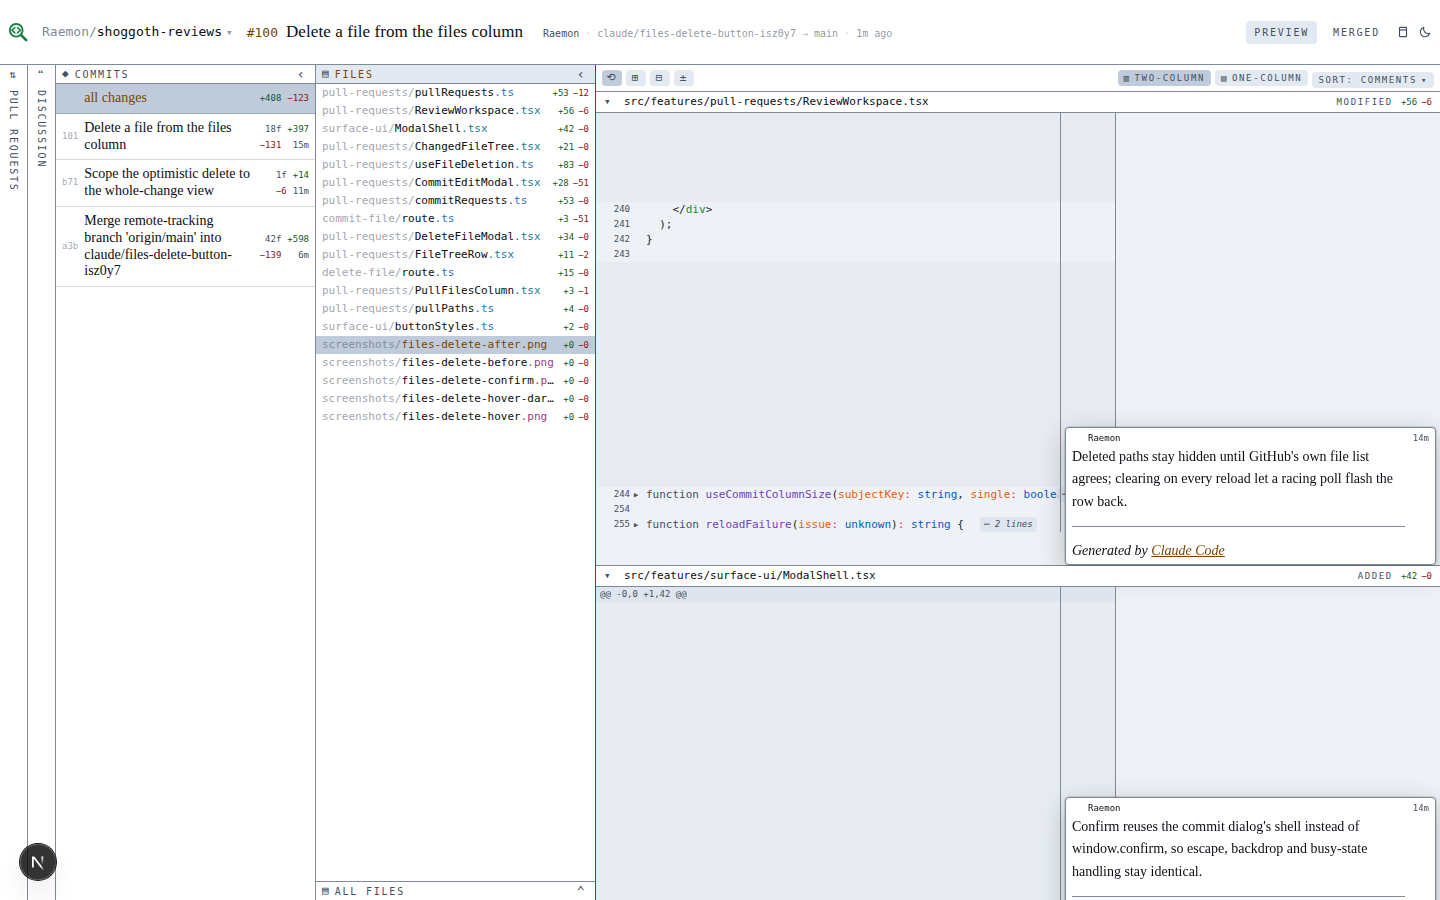
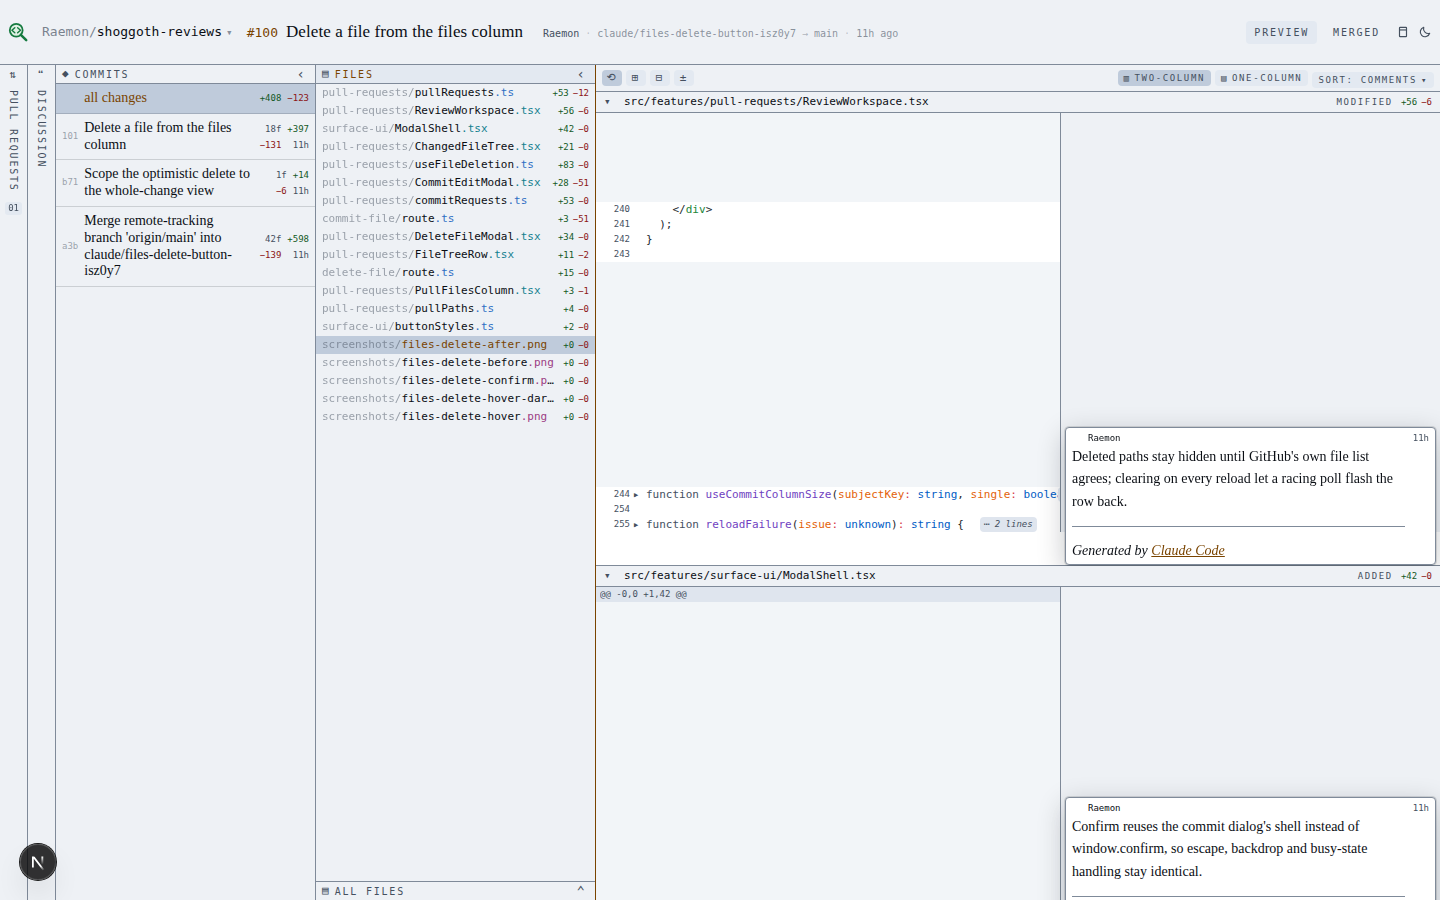
Put the diff on white and the surrounding columns on grey
Light mode had it the other way round: the file and comment columns were
white and the code sat on the page grey. A new --code token paints the
diff surface (white in light, unchanged in dark) while --panel takes the
slightly grey tone, so the code reads as the page and the columns as its
chrome. Thread cards move to --tip, which still stands out now that the
comment column is panel-coloured, and clip to the column so nothing can
render wider than it.

Claude-Session: https://claude.ai/code/session_01PAHNLCx61FBCkNtsXgCbyU

diff --git a/src/features/pull-requests/ThreadCard.tsx b/src/features/pull-requests/ThreadCard.tsx
@@ -24,7 +24,7 @@ export function ThreadCard({ thread }: { thread: ReviewThread }) {
   const shown = open ? thread.comments : thread.comments.slice(0, 1);
   return (
     <article
-      className={`group relative rounded border border-panel-edge bg-panel shadow-card ${thread.resolved ? 'opacity-70 hover:opacity-100' : ''}`}
+      className={`group relative overflow-hidden rounded border border-panel-edge bg-tip shadow-card ${thread.resolved ? 'opacity-70 hover:opacity-100' : ''}`}
     >
       {shown.map((comment, index) => (
         <ThreadComment
@@ -121,7 +121,7 @@ function ThreadActions({
 }) {
   const first = thread.comments[0];
   return (
-    <div className="absolute bottom-0 right-0 flex items-center gap-0.5 rounded-tl border-l border-t border-panel-edge/60 bg-panel px-1 text-[10px] opacity-0 transition-opacity focus-within:opacity-100 group-hover:opacity-100">
+    <div className="absolute bottom-0 right-0 flex items-center gap-0.5 rounded-tl border-l border-t border-panel-edge/60 bg-tip px-1 text-[10px] opacity-0 transition-opacity focus-within:opacity-100 group-hover:opacity-100">
       <HoverCardTrigger label="Reply" focusable={false} tooltipStyle>
         <button type="button" aria-label="Reply" onClick={onReply} disabled={busy} className={ACTION}>
           ↩

diff --git a/src/features/pull-requests/InlineThreads.tsx b/src/features/pull-requests/InlineThreads.tsx
@@ -39,7 +39,7 @@ export function InlineThreads({
   useEffect(() => onOverflow(overflow), [overflow, onOverflow]);
 
   return (
-    <div className="relative shrink-0 border-l border-panel-edge" style={{ width }}>
+    <div className="relative shrink-0 border-l border-panel-edge bg-panel" style={{ width }}>
       {cards.map((card) => (
         <PlacedCard
           key={card.thread.rootId}
@@ -117,7 +117,7 @@ function PlacedCard({
           type="button"
           onClick={onToggle}
           style={{ height: EXPAND_BAR }}
-          className="block w-full rounded-b border border-t-0 border-panel-edge bg-panel px-1.5 text-left text-[9px] italic leading-[13px] text-ink-dim hover:text-ink"
+          className="block w-full rounded-b border border-t-0 border-panel-edge bg-tip px-1.5 text-left text-[9px] italic leading-[13px] text-ink-dim hover:text-ink"
         >
           {expanded ? 'Collapse' : 'Expand'}
         </button>

diff --git a/src/app/globals.css b/src/app/globals.css
@@ -5,6 +5,7 @@
   --font-serif: 'Iowan Old Style', Palatino, 'Palatino Linotype', 'Book Antiqua', Georgia, serif;
 
   --color-bg: var(--bg);
+  --color-code: var(--code);
   --color-panel: var(--panel);
   --color-panel-edge: var(--panel-edge);
   --color-ink: var(--ink);
@@ -50,8 +51,9 @@
 }
 
 :root {
-  --bg: #eef1f5;
-  --panel: #ffffff;
+  --bg: #e6eaf1;
+  --code: #ffffff;
+  --panel: #eef1f5;
   --panel-edge: #7f8a99;
   --ink: #0a0e14;
   --ink-dim: #45505f;
@@ -93,6 +95,7 @@
 @media (prefers-color-scheme: dark) {
   :root:not([data-theme='light']) {
     --bg: #0f0e0d;
+    --code: #0f0e0d;
     --panel: #1a1917;
     --panel-edge: #6f675c;
     --ink: #f8f4ec;
@@ -161,6 +164,7 @@
 
 :root[data-theme='dark'] {
   --bg: #0f0e0d;
+  --code: #0f0e0d;
   --panel: #1a1917;
   --panel-edge: #6f675c;
   --ink: #f8f4ec;

diff --git a/src/features/pull-requests/DiffPanes.tsx b/src/features/pull-requests/DiffPanes.tsx
@@ -57,7 +57,7 @@ export function DiffPanes({
     <EditTarget value={editablePull && { pull: editablePull, headRef: fileSet.headRef, onCommitted }}>
       <div className="flex min-h-0 flex-1 flex-col">
         <DiffLayoutToggle />
-        <div ref={scroller} className="min-h-0 flex-1 overflow-y-auto">
+        <div ref={scroller} className="min-h-0 flex-1 overflow-y-auto bg-code">
           <ImageStrip
             key={`${fileSet.baseRef}:${fileSet.headRef}`}
             owner={owner}
